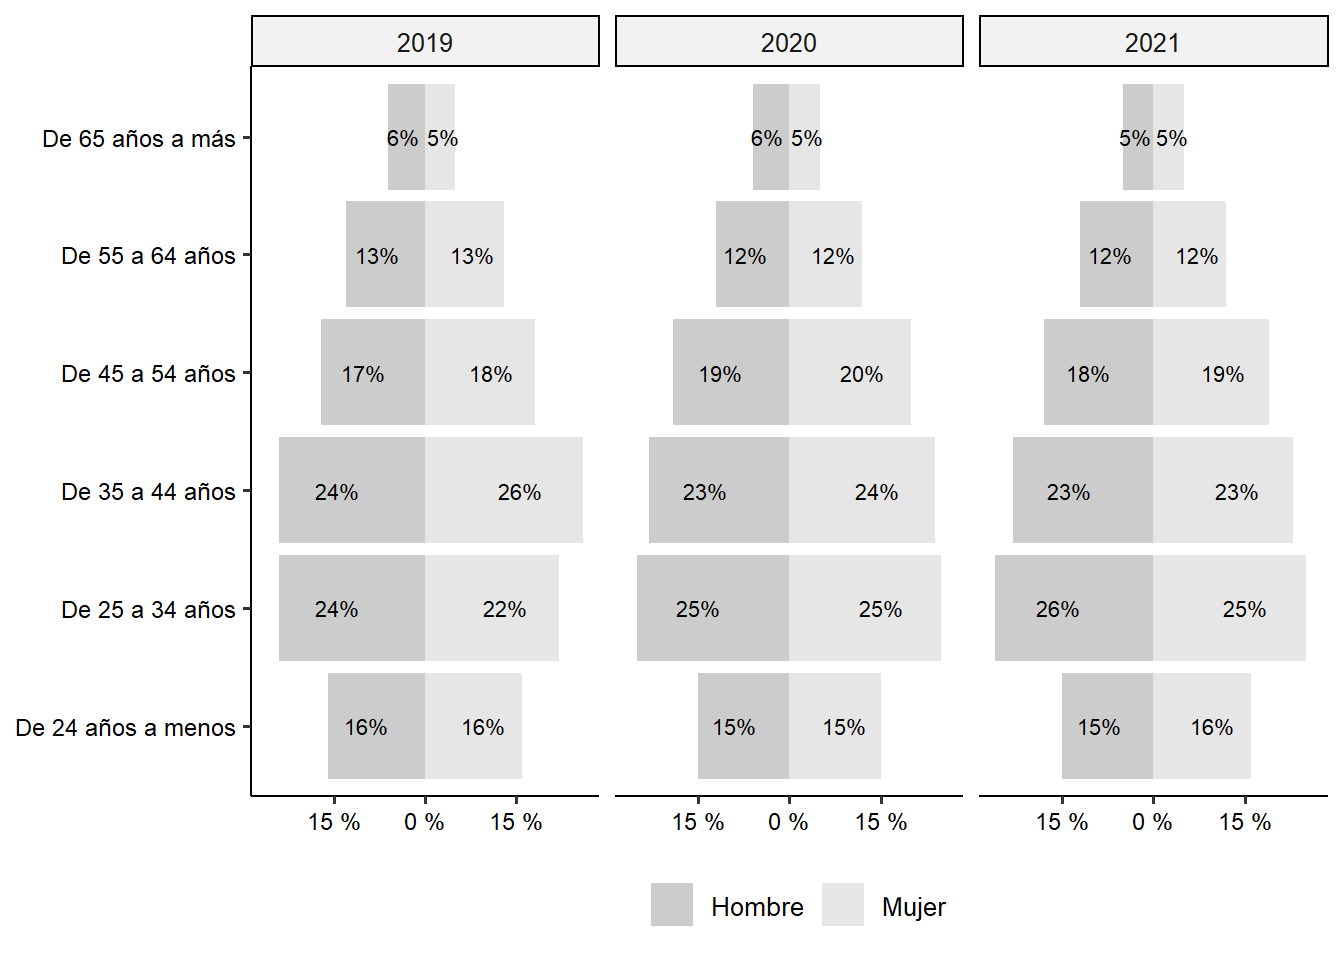
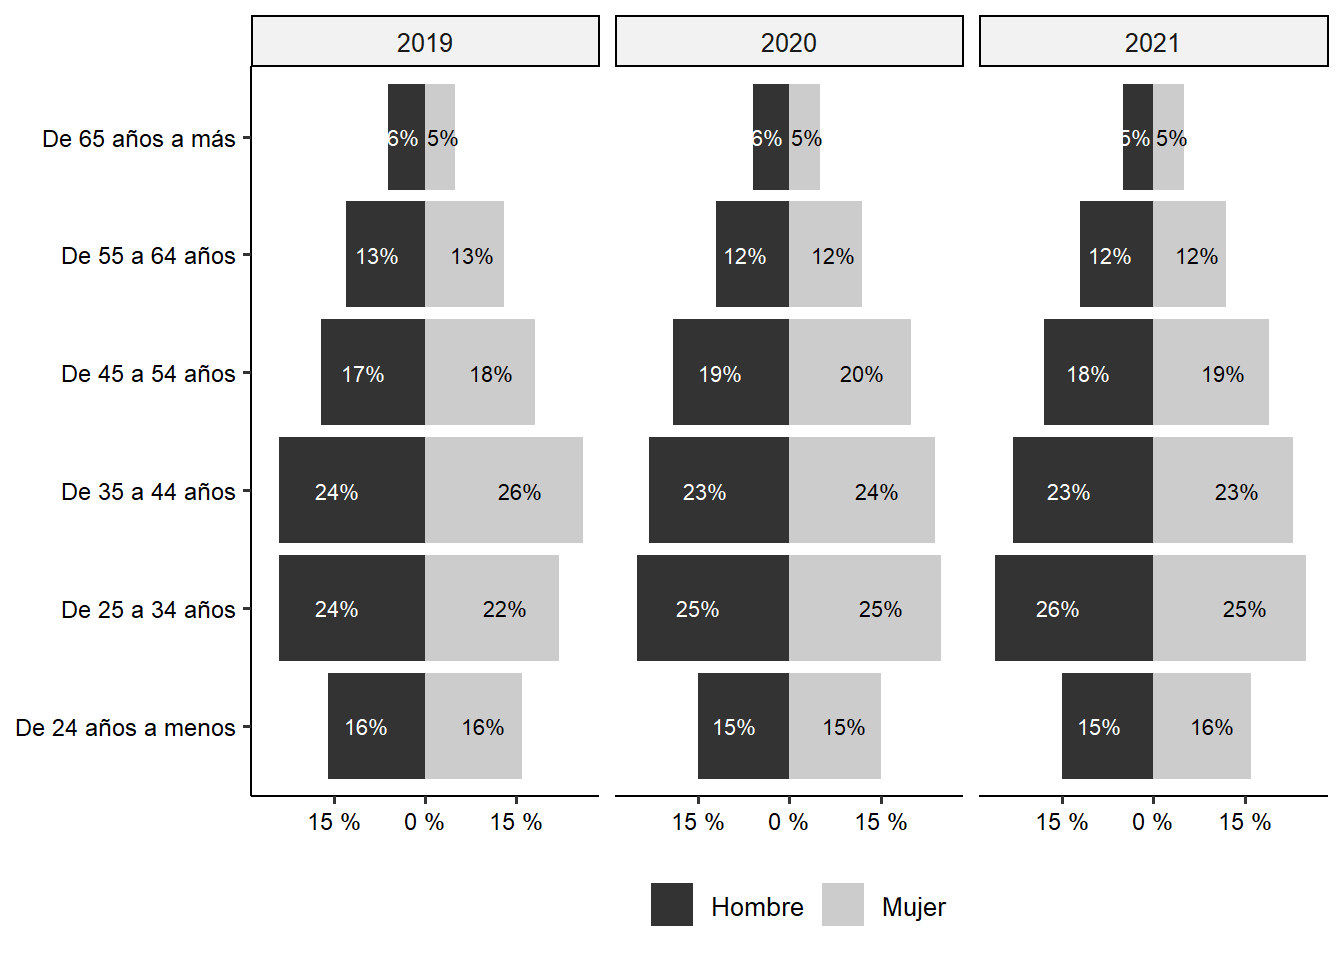
Initial commit

diff --git a/_site/posts/tablas4_tesis/index.html b/_site/posts/tablas4_tesis/index.html
@@ -764,7 +764,7 @@ code span.wa { color: #60a0b0; font-weight: bold; font-style: italic; } /* Warni
 </div>
 </div>
 </div>
-<div class="cell" data-hash="index_cache/html/fig-edadsex_a902b31f706bc81bd40d6826732d832f">
+<div class="cell" data-hash="index_cache/html/fig-edadsex_8ad35605c587fd826784af491f63695f">
 <div class="cell-output-display">
 <div id="fig-edadsex" class="quarto-figure quarto-figure-center anchored">
 <figure class="figure">
@@ -12514,15 +12514,15 @@ window.document.addEventListener("DOMContentLoaded", function (event) {
 <span id="cb1-311"><a href="#cb1-311" aria-hidden="true" tabindex="-1"></a>         <span class="at">label=</span><span class="fu">paste0</span>(porc, <span class="st">"%"</span>)) <span class="sc">%&gt;%</span> </span>
 <span id="cb1-312"><a href="#cb1-312" aria-hidden="true" tabindex="-1"></a>  <span class="fu">ggplot</span>(<span class="fu">aes</span>(<span class="at">x=</span>gedad, <span class="at">fill =</span> p207, <span class="at">label =</span> label)) <span class="sc">+</span></span>
 <span id="cb1-313"><a href="#cb1-313" aria-hidden="true" tabindex="-1"></a>  <span class="fu">geom_bar</span>(<span class="at">data =</span> <span class="sc">~</span><span class="fu">subset</span>(., p207 <span class="sc">%in%</span> <span class="st">"Mujer"</span>), <span class="fu">aes</span>(<span class="at">y=</span>porc), <span class="at">stat=</span><span class="st">"identity"</span>) <span class="sc">+</span></span>
-<span id="cb1-314"><a href="#cb1-314" aria-hidden="true" tabindex="-1"></a>  <span class="fu">geom_text</span>(<span class="at">data =</span> <span class="sc">~</span><span class="fu">subset</span>(., p207 <span class="sc">%in%</span> <span class="st">"Mujer"</span>), <span class="fu">aes</span>(<span class="at">y=</span>porc, <span class="at">label =</span> label), <span class="at">position =</span> <span class="fu">position_stack</span>(<span class="at">vjust =</span> <span class="fl">0.6</span>), <span class="at">size =</span> <span class="fl">2.9</span>) <span class="sc">+</span></span>
+<span id="cb1-314"><a href="#cb1-314" aria-hidden="true" tabindex="-1"></a>  <span class="fu">geom_text</span>(<span class="at">data =</span> <span class="sc">~</span><span class="fu">subset</span>(., p207 <span class="sc">%in%</span> <span class="st">"Mujer"</span>), <span class="fu">aes</span>(<span class="at">y=</span>porc, <span class="at">label =</span> label), <span class="at">position =</span> <span class="fu">position_stack</span>(<span class="at">vjust =</span> <span class="fl">0.6</span>), <span class="at">size =</span> <span class="fl">2.9</span>, <span class="at">colour =</span> <span class="st">"black"</span>) <span class="sc">+</span></span>
 <span id="cb1-315"><a href="#cb1-315" aria-hidden="true" tabindex="-1"></a>  <span class="fu">geom_bar</span>(<span class="at">data =</span> <span class="sc">~</span><span class="fu">subset</span>(., p207 <span class="sc">%in%</span> <span class="st">"Hombre"</span>), <span class="fu">aes</span>(<span class="at">y=</span><span class="sc">-</span>porc), <span class="at">stat=</span><span class="st">"identity"</span>) <span class="sc">+</span></span>
-<span id="cb1-316"><a href="#cb1-316" aria-hidden="true" tabindex="-1"></a>  <span class="fu">geom_text</span>(<span class="at">data =</span> <span class="sc">~</span><span class="fu">subset</span>(., p207 <span class="sc">%in%</span> <span class="st">"Hombre"</span>), <span class="fu">aes</span>(<span class="at">y=</span><span class="sc">-</span>porc, <span class="at">label =</span> label), <span class="at">position =</span> <span class="fu">position_stack</span>(<span class="at">vjust =</span> <span class="fl">0.4</span>), <span class="at">size =</span> <span class="fl">2.9</span>) <span class="sc">+</span></span>
+<span id="cb1-316"><a href="#cb1-316" aria-hidden="true" tabindex="-1"></a>  <span class="fu">geom_text</span>(<span class="at">data =</span> <span class="sc">~</span><span class="fu">subset</span>(., p207 <span class="sc">%in%</span> <span class="st">"Hombre"</span>), <span class="fu">aes</span>(<span class="at">y=</span><span class="sc">-</span>porc, <span class="at">label =</span> label), <span class="at">position =</span> <span class="fu">position_stack</span>(<span class="at">vjust =</span> <span class="fl">0.4</span>), <span class="at">size =</span> <span class="fl">2.9</span>, <span class="at">colour =</span> <span class="st">"white"</span>) <span class="sc">+</span></span>
 <span id="cb1-317"><a href="#cb1-317" aria-hidden="true" tabindex="-1"></a>  <span class="fu">scale_y_continuous</span>(</span>
 <span id="cb1-318"><a href="#cb1-318" aria-hidden="true" tabindex="-1"></a>    <span class="at">breaks =</span> <span class="fu">seq</span>(<span class="sc">-</span><span class="dv">30</span>, <span class="dv">30</span>, <span class="dv">15</span>),</span>
 <span id="cb1-319"><a href="#cb1-319" aria-hidden="true" tabindex="-1"></a>    <span class="at">labels =</span> <span class="cf">function</span>(x) {<span class="fu">paste</span>(<span class="fu">abs</span>(x), <span class="st">'%'</span>)}</span>
 <span id="cb1-320"><a href="#cb1-320" aria-hidden="true" tabindex="-1"></a>  ) <span class="sc">+</span></span>
 <span id="cb1-321"><a href="#cb1-321" aria-hidden="true" tabindex="-1"></a>  <span class="fu">coord_flip</span>() <span class="sc">+</span></span>
-<span id="cb1-322"><a href="#cb1-322" aria-hidden="true" tabindex="-1"></a>  <span class="fu">scale_fill_grey</span>(<span class="at">start =</span> <span class="fl">0.8</span>,<span class="at">end =</span> <span class="fl">0.9</span>) <span class="sc">+</span></span>
+<span id="cb1-322"><a href="#cb1-322" aria-hidden="true" tabindex="-1"></a>  <span class="fu">scale_fill_grey</span>(<span class="at">start =</span> <span class="fl">0.2</span>,<span class="at">end =</span> <span class="fl">0.8</span>) <span class="sc">+</span></span>
 <span id="cb1-323"><a href="#cb1-323" aria-hidden="true" tabindex="-1"></a>  <span class="fu">theme_pubr</span>() <span class="sc">+</span></span>
 <span id="cb1-324"><a href="#cb1-324" aria-hidden="true" tabindex="-1"></a>  <span class="fu">facet_grid</span>(<span class="at">cols =</span> <span class="fu">vars</span>(ano)) <span class="sc">+</span></span>
 <span id="cb1-325"><a href="#cb1-325" aria-hidden="true" tabindex="-1"></a>  <span class="fu">theme</span>(</span>

diff --git a/_site/index.html b/_site/index.html
@@ -169,7 +169,7 @@ ul.task-list{list-style: none;}
 
 <div class="quarto-listing quarto-listing-container-default" id="listing-listing">
 <div class="list quarto-listing-default">
-<div class="quarto-post image-right" data-index="0" data-categories="enaho,tablas,graficos" data-listing-date-sort="1655787600000" data-listing-file-modified-sort="1655918366144" data-listing-reading-time-sort="20.875">
+<div class="quarto-post image-right" data-index="0" data-categories="enaho,tablas,graficos" data-listing-date-sort="1655787600000" data-listing-file-modified-sort="1655918808665" data-listing-reading-time-sort="20.905">
 <div class="thumbnail">
 <p><a href="./posts/tablas4_tesis/index.html"> <img src="./posts/tablas4_tesis/image.jpg" class="thumnail-image"> </a></p>
 </div>
